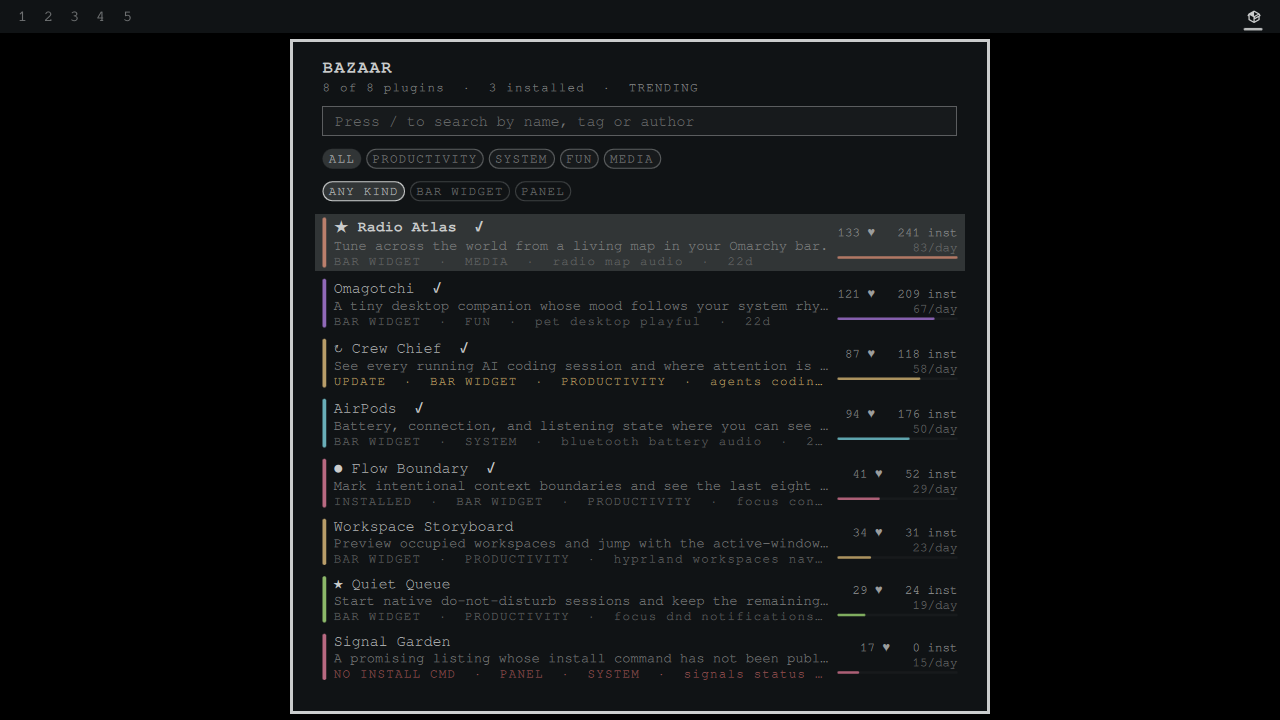
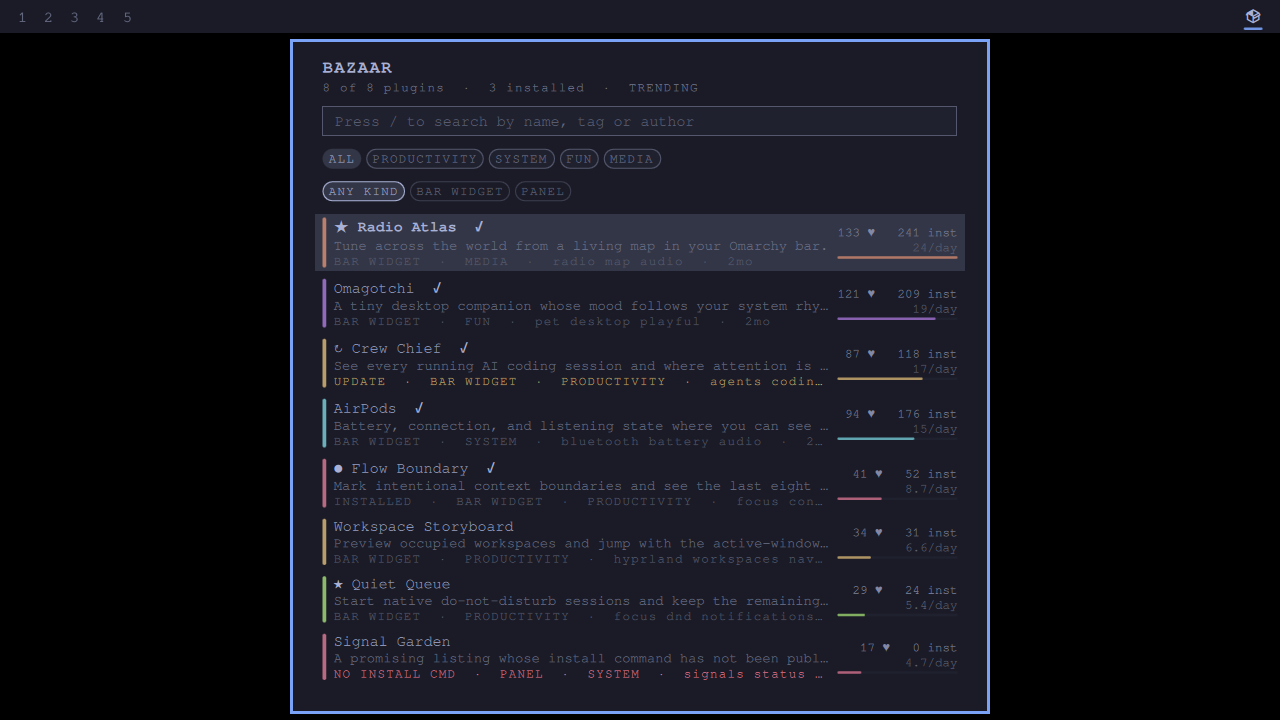
fix(theme): qualify the palette as Commons.Color for Qt 6.12; fold in Dependabot (#18)
* fix(theme): qualify the palette as Commons.Color for Qt 6.12; fold in Dependabot

Omarchy's shell contract (omacom/omarchy docs/omarchy-shell.md, Theme tokens)
now requires plugin QML to import qs.Commons with an alias and use
Commons.Color, because Qt 6.12 introduces its own Color type: "Existing
third-party plugins that use bare Color must make the same change." Arch now
ships Qt 6.12.0. Panel.qml used bare Color in 19 fallback colours; they now
use Commons.Color. BarWidget.qml and Service.qml had none. A contract test
fails on any bare `Color.` in the shipped QML and requires the alias wherever
Commons.Color appears.

scripts/rig-render.sh now seeds the current-theme state a real Omarchy
install has (current/theme, theme.name, background, the entries
omarchy-theme-set writes), copied from crew-chief ba0fa5b. On the upgraded
rig (Omarchy 74de104) first-party image-picker and lock read that state and
log QML warnings without it, which the render correctly refuses to certify.
Chose seeding real install state over narrowing the warning filter, because
a plugin can cause a warning inside a first-party component it uses.

Folds in the two open Dependabot workflow bumps, which failed CI only on the
audit-harness hash pin: actions/setup-node 7.0.0 -> 7.1.0 (#16) and
jeremylongshore/minimax-code-review to cfb2c72 (#17), identical to the fork's
main per the compare API. Harness re-pinned after verify listed only those
[…]

diff --git a/Panel.qml b/Panel.qml
@@ -2,6 +2,9 @@ import QtQuick
 import Quickshell
 import Quickshell.Io
 import qs.Commons
+// Qt 6.12 adds its own Color type, so Omarchy's palette singleton must be
+// qualified (docs/omarchy-shell.md, Theme tokens).
+import qs.Commons as Commons
 import qs.Ui
 import "Model.js" as Model
 
@@ -382,7 +385,7 @@ Panel {
                 textFormat: Text.PlainText
                 width: heroCol.width
                 elide: Text.ElideRight
-                color: root.bar ? root.bar.foreground : Color.foreground
+                color: root.bar ? root.bar.foreground : Commons.Color.foreground
                 font.family: root.bar ? root.bar.fontFamily : Style.font.family
                 font.pixelSize: Style.font.title
                 font.bold: true
@@ -407,7 +410,7 @@ Panel {
                 textFormat: Text.PlainText
                 width: heroCol.width
                 elide: Text.ElideRight
-                color: root.bar ? Qt.darker(root.bar.foreground, 1.4) : Color.muted
+                color: root.bar ? Qt.darker(root.bar.foreground, 1.4) : Commons.Color.muted
                 font.family: root.bar ? root.bar.fontFamily : Style.font.family
                 font.pixelSize: Style.font.caption
                 font.letterSpacing: 1
@@ -432,7 +435,7 @@ Panel {
               border.width: searchInput.activeFocus ? Style.hoverBorderWidth : Style.normalBorderWidth
               border.color: root.bar ? Qt.rgba(root.bar.foreground.r, root.bar.foreground.g,
                                                root.bar.foreground.b, Style.normalBorderAlpha)
-                                     : Color.foreground
+                                     : Commons.Color.foreground
 
               TextInput {
                 id: searchInput
@@ -442,7 +445,7 @@ Panel {
                 verticalAlignment: TextInput.AlignVCenter
                 text: root.query
                 onTextChanged: { root.query = text; root.cursor = 0 }
-                color: root.bar ? root.bar.foreground : Color.foreground
+                color: root.bar ? root.bar.foreground : Commons.Color.foreground
                 font.family: root.bar ? root.bar.fontFamily : Style.font.family
                 font.pixelSize: Style.font.body
                 selectByMouse: true
@@ -464,7 +467,7 @@ Panel {
                 text: "Press / to search by name, tag or author"
                 textFormat: Text.PlainText
                 elide: Text.ElideRight
-                color: root.bar ? Qt.darker(root.bar.foreground, 1.7) : Color.muted
+                color: root.bar ? Qt.darker(root.bar.foreground, 1.7) : Commons.Color.muted
                 font.family: root.bar ? root.bar.fontFamily : Style.font.family
                 font.pixelSize: Style.font.body
               }
@@ -496,7 +499,7 @@ Panel {
                 border.color: root.bar
                   ? Qt.rgba(root.bar.foreground.r, root.bar.foreground.g, root.bar.foreground.b,
                             selected ? Style.selectedBorderAlpha : Style.normalBorderAlpha)
-                  : Color.muted
+                  : Commons.Color.muted
 
                 Text {
                   id: chipText
@@ -506,8 +509,8 @@ Panel {
                   elide: Text.ElideRight
                   width: Math.min(implicitWidth, chipRow.width)
                   color: parent.selected
-                    ? (root.bar ? root.bar.foreground : Color.foreground)
-                    : (root.bar ? Qt.darker(root.bar.foreground, 1.5) : Color.muted)
+                    ? (root.bar ? root.bar.foreground : Commons.Color.foreground)
+                    : (root.bar ? Qt.darker(root.bar.foreground, 1.5) : Commons.Color.muted)
                   font.family: root.bar ? root.bar.fontFamily : Style.font.family
                   font.pixelSize: Style.font.caption
                   font.letterSpacing: 1
@@ -543,7 +546,7 @@ Panel {
                 border.color: root.bar
                   ? Qt.rgba(root.bar.foreground.r, root.bar.foreground.g, root.bar.foreground.b,
                             selected ? Style.selectedBorderAlpha : Style.normalBorderAlpha * 0.6)
-                  : Color.muted
+                  : Commons.Color.muted
 
                 Text {
                   id: kindText
@@ -553,8 +556,8 @@ Panel {
                   elide: Text.ElideRight
                   width: Math.min(implicitWidth, kindRow.width)
                   color: parent.selected
-                    ? (root.bar ? root.bar.foreground : Color.foreground)
-                    : (root.bar ? Qt.darker(root.bar.foreground, 1.7) : Color.muted)
+                    ? (root.bar ? root.bar.foreground : Commons.Color.foreground)
+                    : (root.bar ? Qt.darker(root.bar.foreground, 1.7) : Commons.Color.muted)
                   font.family: root.bar ? root.bar.fontFamily : Style.font.family
                   font.pixelSize: Style.font.caption
                   font.letterSpacing: 1
@@ -636,7 +639,7 @@ Panel {
                     width: statCol.width
                     horizontalAlignment: Text.AlignRight
                     elide: Text.ElideRight
-                    color: root.bar ? Qt.darker(root.bar.foreground, 1.3) : Color.foreground
+                    color: root.bar ? Qt.darker(root.bar.foreground, 1.3) : Commons.Color.foreground
                     font.family: root.bar ? root.bar.fontFamily : Style.font.family
                     font.pixelSize: Style.font.caption
                   }
@@ -647,7 +650,7 @@ Panel {
                     width: statCol.width
                     horizontalAlignment: Text.AlignRight
                     elide: Text.ElideRight
-                    color: root.bar ? Qt.darker(root.bar.foreground, 1.8) : Color.muted
+                    color: root.bar ? Qt.darker(root.bar.foreground, 1.8) : Commons.Color.muted
                     font.family: root.bar ? root.bar.fontFamily : Style.font.family
                     font.pixelSize: Style.font.caption
                   }
@@ -697,7 +700,7 @@ Panel {
                     textFormat: Text.PlainText
                     width: rowCol.width
                     elide: Text.ElideRight
-                    color: root.bar ? root.bar.foreground : Color.foreground
+                    color: root.bar ? root.bar.foreground : Commons.Color.foreground
                     font.family: root.bar ? root.bar.fontFamily : Style.font.family
                     font.pixelSize: Style.font.body
                     font.bold: rowItem.isCursor
@@ -710,7 +713,7 @@ Panel {
                     elide: Text.ElideRight
                     maximumLineCount: 1
                     visible: rowItem.modelData.description !== ""
-                    color: root.bar ? Qt.darker(root.bar.foreground, 1.5) : Color.muted
+                    color: root.bar ? Qt.darker(root.bar.foreground, 1.5) : Commons.Color.muted
                     font.family: root.bar ? root.bar.fontFamily : Style.font.family
                     font.pixelSize: Style.font.bodySmall
                   }
@@ -728,10 +731,10 @@ Panel {
                     width: rowCol.width
                     elide: Text.ElideRight
                     color: rowItem.modelData.stalled
-                      ? (root.bar ? root.bar.urgent : Color.urgent)
+                      ? (root.bar ? root.bar.urgent : Commons.Color.urgent)
                       : rowItem.hasUpdate
                         ? Qt.hsla(0.11, 0.55, 0.62, 1.0)
-                        : (root.bar ? Qt.darker(root.bar.foreground, 1.9) : Color.muted)
+                        : (root.bar ? Qt.darker(root.bar.foreground, 1.9) : Commons.Color.muted)
                     font.family: root.bar ? root.bar.fontFamily : Style.font.family
                     font.pixelSize: Style.font.caption
                     font.letterSpacing: 1
@@ -770,7 +773,7 @@ Panel {
                   : "No plugin matches. Press c to clear the search and filters."
                 textFormat: Text.PlainText
                 wrapMode: Text.WordWrap
-                color: root.bar ? Qt.darker(root.bar.foreground, 1.5) : Color.muted
+                color: root.bar ? Qt.darker(root.bar.foreground, 1.5) : Commons.Color.muted
                 font.family: root.bar ? root.bar.fontFamily : Style.font.family
                 font.pixelSize: Style.font.bodySmall
               }
@@ -794,7 +797,7 @@ Panel {
                 : "enter install  \u00b7  y copy  \u00b7  o listing  \u00b7  s save  \u00b7  i installed  \u00b7  k kind  \u00b7  t sort  \u00b7  c clear"
               textFormat: Text.PlainText
               wrapMode: Text.WordWrap
-              color: root.bar ? Qt.darker(root.bar.foreground, 1.7) : Color.muted
+              color: root.bar ? Qt.darker(root.bar.foreground, 1.7) : Commons.Color.muted
               font.family: root.bar ? root.bar.fontFamily : Style.font.family
               font.pixelSize: Style.font.caption
               font.letterSpacing: 1

diff --git a/tests/contract.test.js b/tests/contract.test.js
@@ -97,3 +97,15 @@ test("service network and local-state boundaries stay explicit", () => {
   assert.match(service, /savedPath/)
   assert.doesNotMatch(service, /Authorization|Bearer|apiKey|token/)
 })
+
+test("QML qualifies Omarchy's palette as Commons.Color, never bare Color", () => {
+  // Qt 6.12 introduces its own Color type; omarchy docs/omarchy-shell.md
+  // (Theme tokens) requires plugins to import qs.Commons with an alias.
+  const files = fs.readdirSync(root).filter(name => name.endsWith(".qml"))
+  assert.ok(files.length > 0)
+  for (const file of files) {
+    const source = fs.readFileSync(path.join(root, file), "utf8")
+    assert.doesNotMatch(source, /(^|[^\w.])Color\./m, file + " uses bare Color")
+    if (/Commons\.Color\./.test(source)) assert.match(source, /^import qs\.Commons as Commons$/m, file)
+  }
+})

diff --git a/CHANGELOG.md b/CHANGELOG.md
@@ -12,6 +12,22 @@ Regenerate with `scripts/gen-changelog.sh`.
 
 Nothing yet.
 
+## [1.0.2] - 2026-11-15
+
+### Fixed
+
+- Qualify Omarchy's palette as `Commons.Color`, as the shell contract requires
+  now that Qt 6.12 has its own `Color` type. A contract test fails on any bare
+  `Color.` in the shipped QML.
+
+### Changed
+
+- Seed the rig render's isolated home with the current-theme state a real
+  Omarchy install has, so first-party shell plugins on current Omarchy do not
+  log warnings the render would read as plugin warnings.
+- Bump `actions/setup-node` to 7.1.0 and the MiniMax review action to the
+  fork's current main (`cfb2c72`), with the audit harness re-pinned.
+
 ## [1.0.1] - 2026-09-20
 
 ### Fixed
